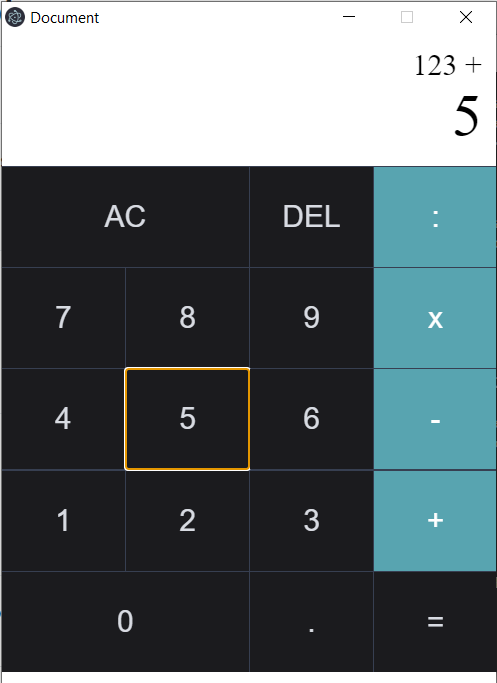
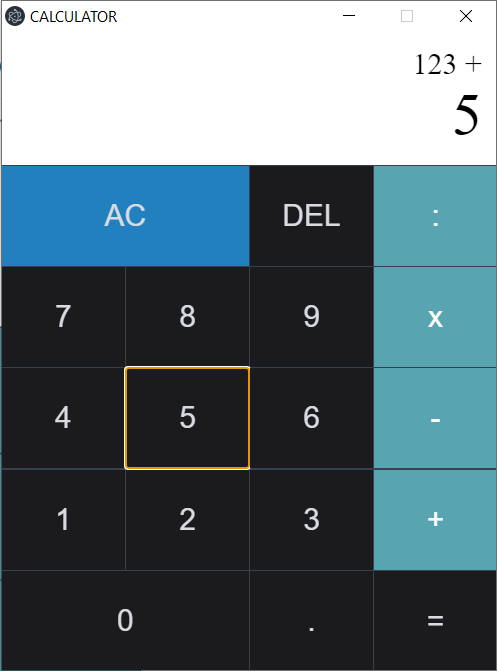
update app title

diff --git a/main.js b/main.js
@@ -4,7 +4,7 @@ const bodyParser = require('body-parser')
 const createWindow = () => {
     const win = new BrowserWindow({
         width: 400,
-        height: 548,
+        height: 538,
         resizable: false,
         webPreferences: {
             nodeIntegration: true

diff --git a/app.html b/app.html
@@ -3,7 +3,7 @@
 <head>
     <meta charset="UTF-8">
     <meta name="viewport" content="width=device-width, initial-scale=1.0">
-    <title>Document</title>
+    <title>CALCULATOR</title>
     <link rel="stylesheet" href="app.css">
 </head>
 <body>
